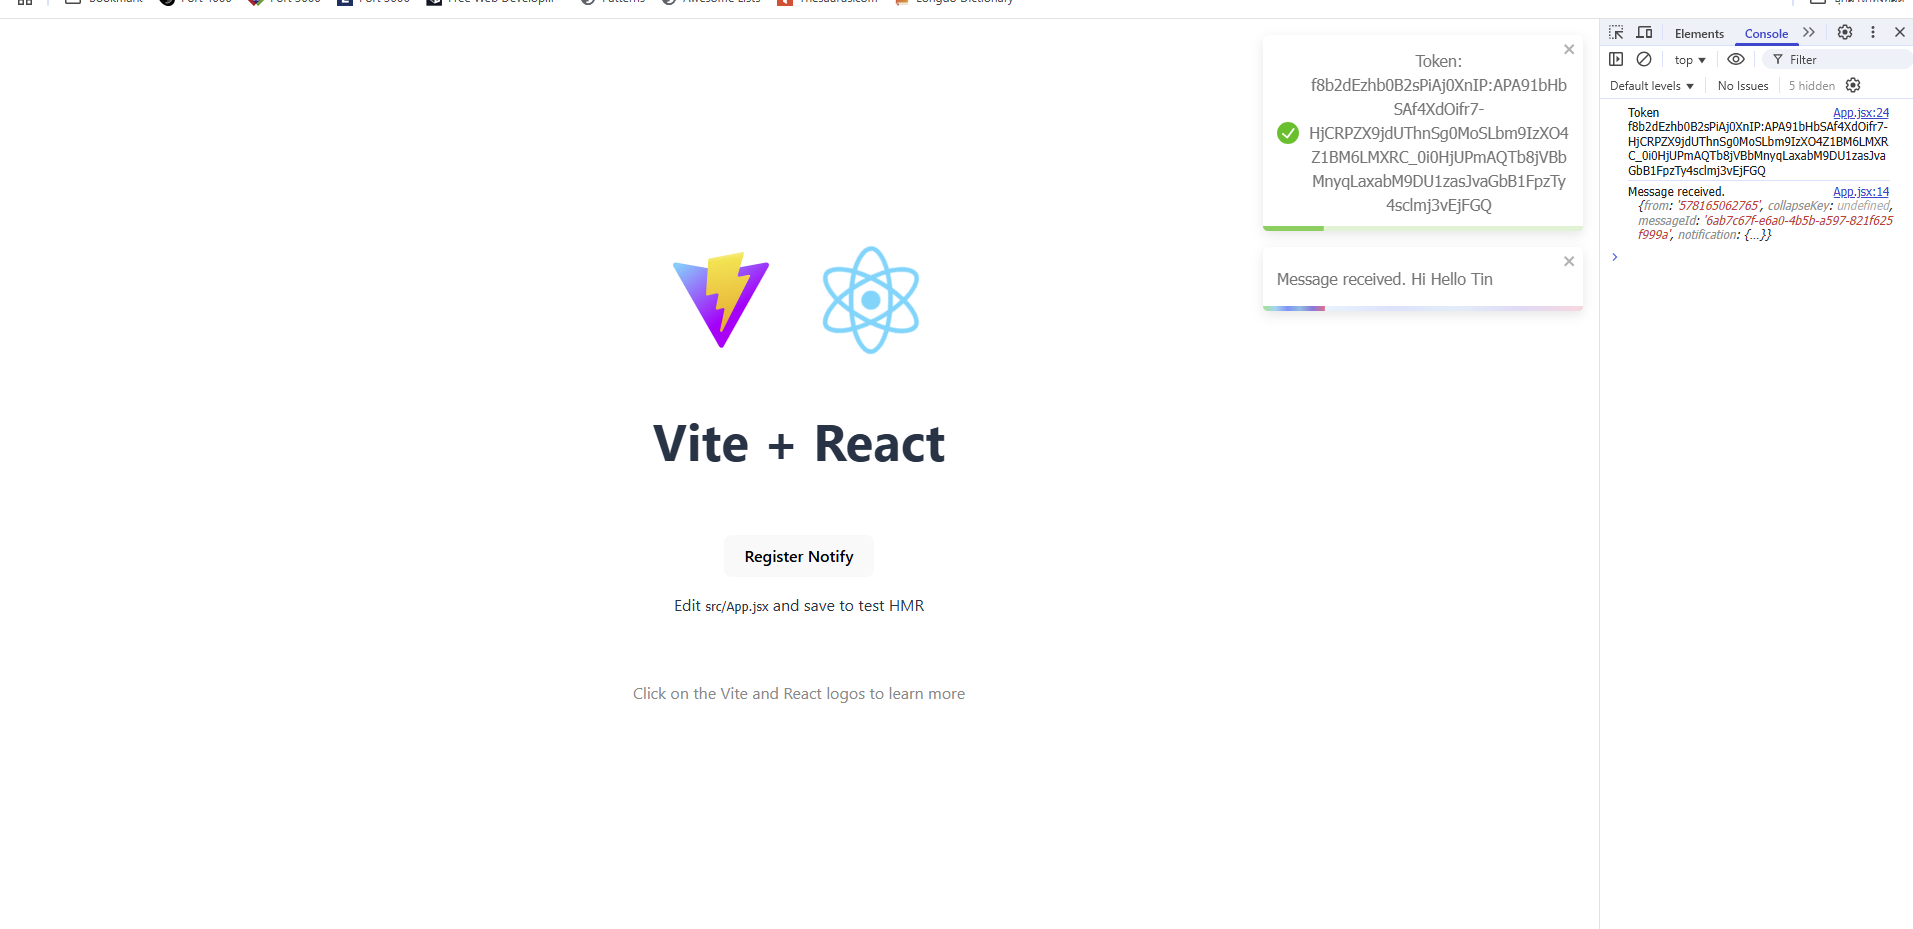
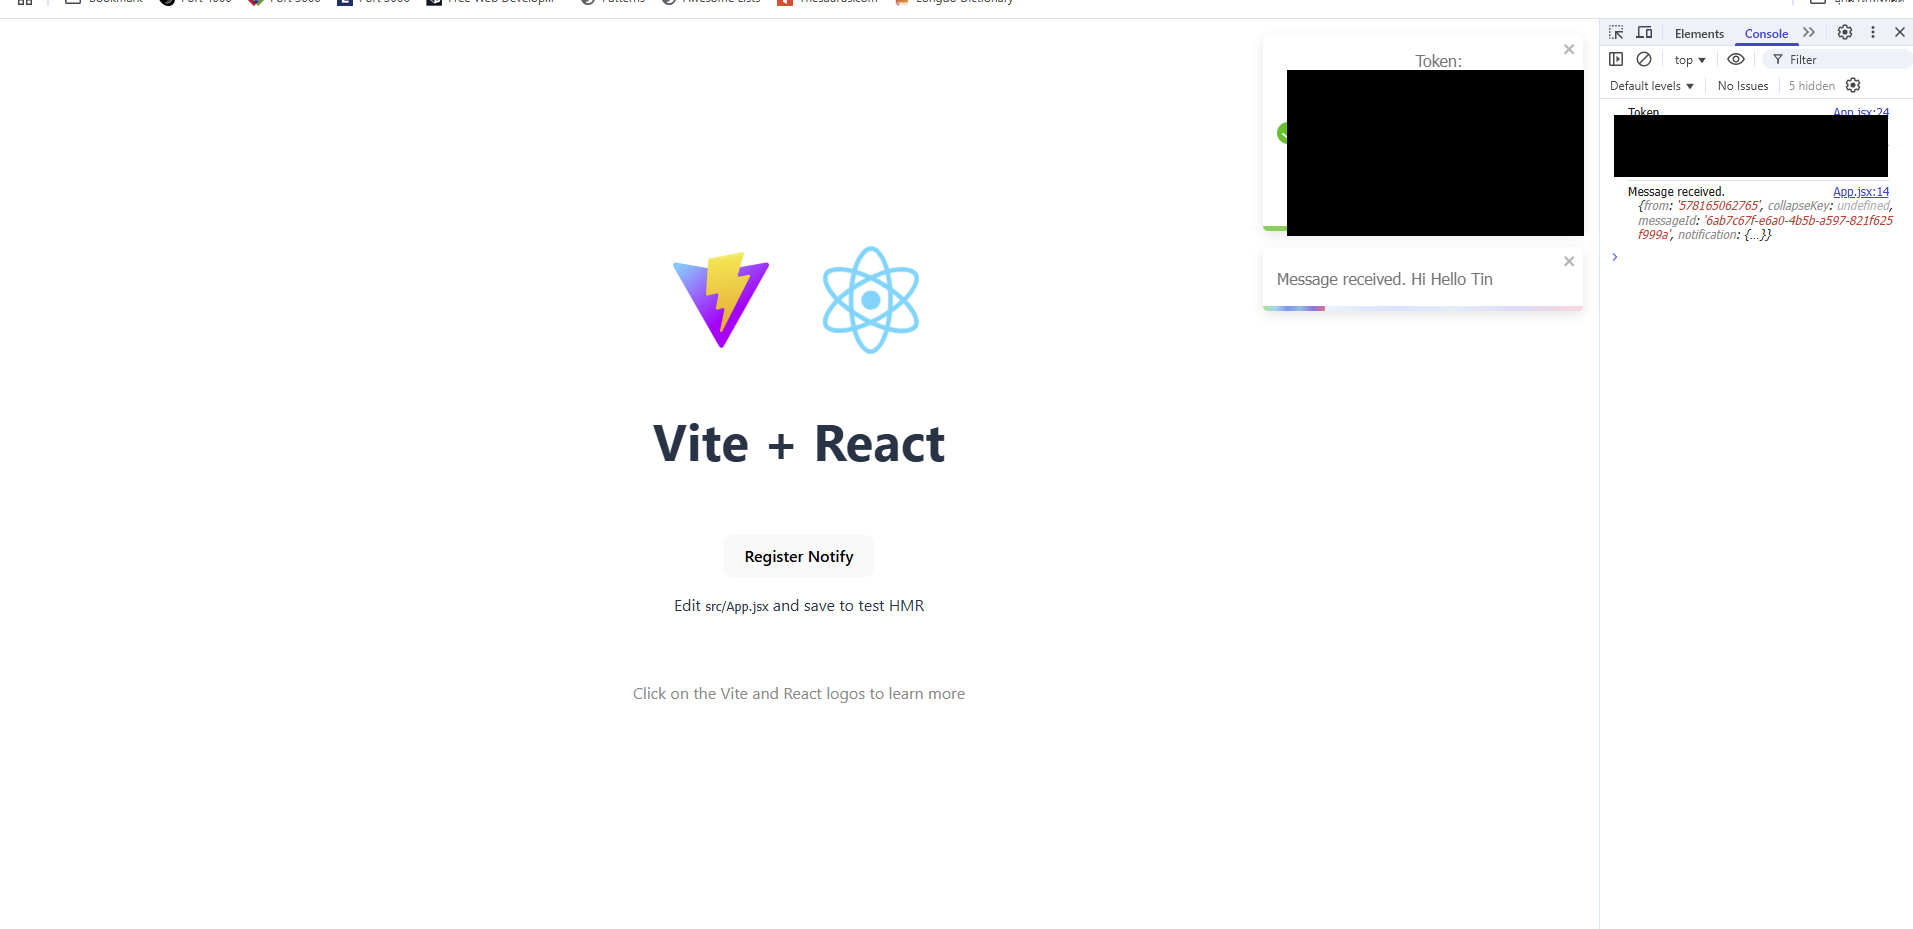
📝 Blur the Image

Changed region(s): [[0.6477, 0.0624, 0.9869, 0.2809]]

diff --git a/README.md b/README.md
@@ -81,8 +81,10 @@ can send by postman, apidog or another client
 
 - Watching for the result
 
-The final Result will be like
+The final Result will be like in Foreground
 ![alt text](image-4.png)
+
+And in background when close the browser
 ![alt text](image-5.png)
 
 ---
